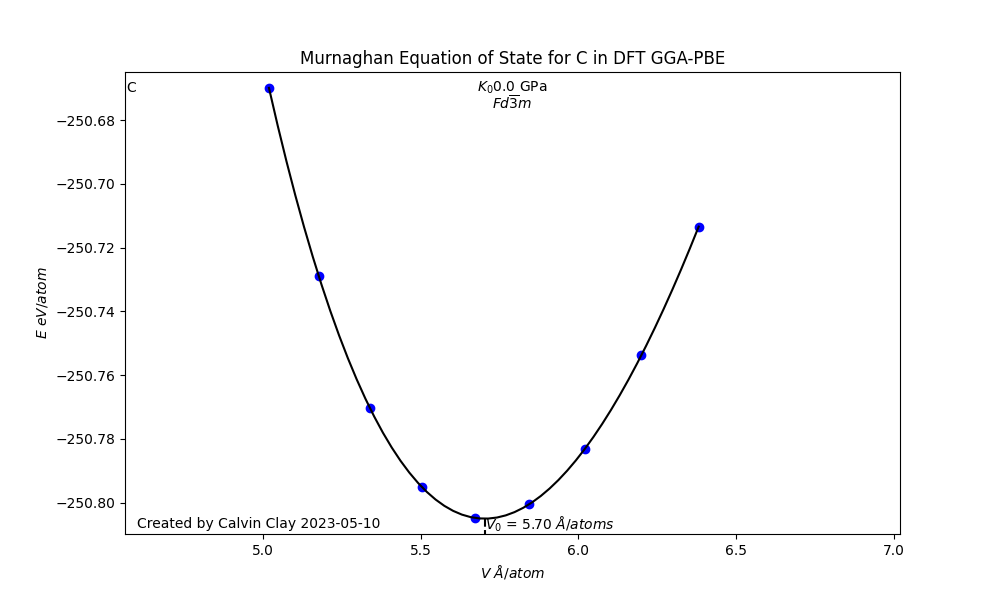
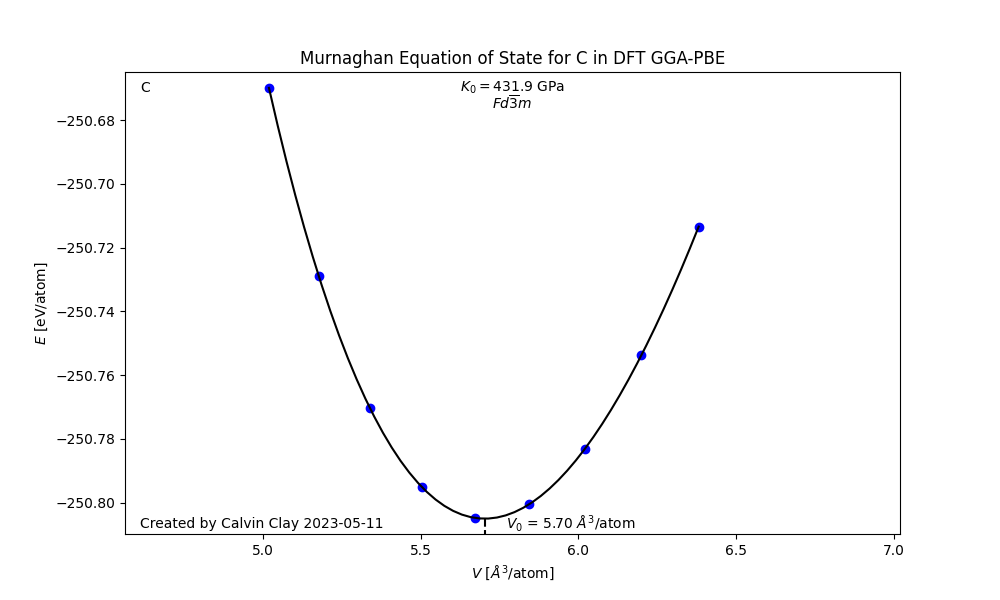
Final finally done

diff --git a/final_exam/Clay_PHYS241FinalScript.py b/final_exam/Clay_PHYS241FinalScript.py
@@ -1,5 +1,9 @@
+"""
+The following code takes the data from volume_energies.dat, converts units, then plots based off the Murnaghan
+Equation of State. Finally, the Sinusoidal Wave is plotted with the first 3 matrices following data.
+
+"""
 from annotate_plot import annotate_plot
-from fit_curve_array import fit_curve_array
 from plot_data_with_fit import plot_data_with_fit
 from read_two_columns_text import read_two_columns_text
 from calculate_quadratic_fit import calculate_quadratic_fit
@@ -12,113 +16,119 @@ import numpy as np
 from datetime import date
 from convert_units import convert_units
 
-display_graph = False
-
 
 def parse_file_name(file):
+    """
+    Give the file name 'C.Fd-3m.GGA-PBE.volumes_energy.dat' to the function to split into 3 strings.
+    :param file: C.Fd-3m.GGA-PBE.volumes_energy.dat
+    :return: str, parse[0]
+    :return: str, parse[1]
+    :return: str, parse[3]
+    """
     parse = file.split(".")
-    chemical_symbol = parse[0]
-    crystal_symbol = parse[1]
-    acronym = parse[2]
-    return chemical_symbol, crystal_symbol, acronym
+    return parse[0], parse[1], parse[2]
 
 
-filename = 'C.Fd-3m.GGA-PBE.volumes_energies.dat'
-chemical_symbol, crystal_symbol, acronym = parse_file_name(filename)
-array = (read_two_columns_text(filename)) / 2
+if __name__ == '__main__':
+    display_graph = True
+    filename = 'C.Fd-3m.GGA-PBE.volumes_energies.dat'
+    chemical_symbol, crystal_symbol, acronym = parse_file_name(filename)
+    array = (read_two_columns_text(filename)) / 2
 
-quad_coefficients_temp = calculate_quadratic_fit(array)
-quadratic_coefficients = quad_coefficients_temp[::-1]
+    quad_coefficients_temp = calculate_quadratic_fit(array)
+    quadratic_coefficients = quad_coefficients_temp[::-1]
 
-eos_fit_curve, eos_parameters = fit_eos(array[0], array[1], quadratic_coefficients, eos='murnaghan')
-converted_units = [convert_units(eos_parameters[0], 'rydberg/atom'),
-                   convert_units(eos_parameters[1], 'rydberg/cubic bor'),
-                   eos_parameters[2], convert_units(eos_parameters[3], 'cubic bohr/atom')
-                   ]
-data_array = np.array([convert_units(array[0], 'cubic bohr/atom'),
-                       convert_units(array[1], 'rydberg/atom')])
+    eos_fit_curve, eos_parameters = fit_eos(array[0], array[1], quadratic_coefficients, eos='murnaghan')
 
-statistics = calculate_bivariate_statistics(data_array)
-min_x = statistics[2]
-max_x = statistics[3]
-min_y = statistics[4]
-max_y = statistics[5]
+    converted_units = [convert_units(eos_parameters[0], 'rydberg/atom'),
+                       convert_units(eos_parameters[1], 'rydberg/cubic bohr'),
+                       eos_parameters[2], convert_units(eos_parameters[3], 'cubic bohr/atom')
+                       ]
 
-fit_array = np.array([np.linspace(min_x, max_x, len(eos_fit_curve)),
-                      convert_units(eos_fit_curve, 'rydberg/atom')])
-plot_miny = min(fit_array[1])
-plot_minx = min(fit_array[0])
-plot_maxy = max(fit_array[1])
-plot_maxx = max(fit_array[0])
+    data_array = np.array([convert_units(array[0], 'cubic bohr/atom'),
+                           convert_units(array[1], 'rydberg/atom')])
 
-annotations_chemical = {'string': f"{chemical_symbol}", 'position': np.array([(min_x/1.1) + 0.005 , max_y - .00005]),
-                        'alignment': ['left', 'center'], 'fontsize': 10}
+    statistics = calculate_bivariate_statistics(data_array)
+    min_x = statistics[2]
+    max_x = statistics[3]
+    min_y = statistics[4]
+    max_y = statistics[5]
 
-annotations_crystal = {
-    'string': rf"${crystal_symbol[:2]}" + r"\overline{" + crystal_symbol[-2] + r"}" + crystal_symbol[-1] + r" $",
-    'position': np.array([(max_x * 1.1 - min_x / 1.1) / 2 + min_x / 1.1, max_y - 0.005]),
-    'alignment': ['center', 'center'], 'fontsize': 10}
+    fit_array = np.array([np.linspace(min_x, max_x, len(eos_fit_curve)),
+                          convert_units(eos_fit_curve, 'rydberg/atom')])
+    plot_miny = min(fit_array[1])
+    plot_minx = min(fit_array[0])
+    plot_maxy = max(fit_array[1])
+    plot_maxx = max(fit_array[0])
 
-annotations_bulk = {'string': rf'$K_0${converted_units[1]:.1f} GPa',
-                    'position': np.array([(max_x * 1.1 - min_x / 1.1) / 2 + min_x / 1.1, max_y]),
-                    'alignment': ['center', 'center'], 'fontsize': 10}
+    annotations_chemical = {'string': f"{chemical_symbol}",
+                            'position': np.array([min_x - 0.3 * (max_x - min_x), max_y - .00005]),
+                            'alignment': ['left', 'center'], 'fontsize': 10}
 
-annotations_V0 = {'string': rf'$V_0$ = {converted_units[3]:.2f} $\AA/atoms$',
-                  'position': np.array([converted_units[3], max_y - .14]),
-                  'alignment': ['left', 'bottom'], 'fontsize': 10}
+    annotations_crystal = {
+        'string': rf"${crystal_symbol[:2]}" + r"\overline{" + crystal_symbol[-2] + r"}" + crystal_symbol[-1] + r" $",
+        'position': np.array([(max_x * 1.1 - min_x / 1.1) / 2 + min_x / 1.1, max_y - 0.005]),
+        'alignment': ['center', 'center'], 'fontsize': 10}
 
-name = 'Calvin Clay'
-annotations_sign = {'string': f"Created by {name} {date.today().isoformat()}",
-                    'position': np.array([4.6, min_y - 0.004]),
-                    'alignment': ['left', 'bottom'],
-                    'fontsize': 10}
+    annotations_bulk = {'string': rf'$K_0= ${converted_units[1]:.1f} GPa',
+                        'position': np.array([(max_x * 1.1 - min_x / 1.1) / 2 + min_x / 1.1, max_y]),
+                        'alignment': ['center', 'center'], 'fontsize': 10}
 
-plt.figure(figsize=(10, 6))
+    annotations_V0 = {'string': rf'$V_0$ = {converted_units[3]:.2f} $\AA^3/$atom',
+                      'position': np.array([converted_units[3] + (max_x - min_x) * .05, max_y - .14]),
+                      'alignment': ['left', 'bottom'], 'fontsize': 10}
 
-plot = (plot_data_with_fit(data_array, fit_array, data_format="o", fit_format=""))
-plt.xlim(min_x / 1.1, max_x * 1.1)
-plt.plot(np.linspace(converted_units[3], converted_units[3], 50),
-                     np.linspace(np.amin(fit_array[1]), (np.amin(fit_array[1]) + min_y * 1.00005 / 2)), 'k--')
-plt.ylim(min_y * 1.00002, max_y / 1.00002)
-plt.ylabel(r'$E$' + ' ' + r"$eV/atom$")
-plt.xlabel(r'$V$' + ' ' + r"$\AA/atom$")
-annotate_plot(annotations_chemical)
-annotate_plot(annotations_V0)
-annotate_plot(annotations_crystal)
-annotate_plot(annotations_bulk)
-annotate_plot(annotations_sign)
-plt.title(f'Murnaghan Equation of State for {chemical_symbol} in DFT {acronym}')
-if display_graph == 'True':
-    plt.show()
-else:
-    plt.savefig('Murnaghan.png')
+    name = 'Calvin Clay'
+    annotations_sign = {'string': f"Created by {name} {date.today().isoformat()}",
+                        'position': np.array([min_x - 0.3 * (max_x - min_x), min_y - 0.004]),
+                        'alignment': ['left', 'bottom'],
+                        'fontsize': 10}
 
-##########
+    plt.figure(figsize=(10, 6))
 
-matrix = generate_matrix(-10, 10, 90, 'Square', 100)
-eigenvalue, eigenvector = lowest_eigenvector(matrix,3)
-eigenvalues = eigenvalue[0:3]
-eigenvectors = eigenvector[0:3]
-x = np.linspace(-10,10,90)
-labels = []
-for i in range(0,3):
-    labels.append(rf'$\psi_n {i}, E_{i} $ = {eigenvalue[i]:.3f}a.u.')
-plt.figure(figsize=(12,8))
-line1 = plt.plot(x, eigenvectors[0])
-line2 = plt.plot(x, eigenvectors[1])
-line3 = plt.plot(x, eigenvectors[2])
-plt.xlabel(r'$x$[a.u.]')
-plt.ylabel(r'$\psi_n (x)$[a.u.]')
-plt.legend(labels=labels, loc='upper right')
-plt.ylim(-2*np.amax(eigenvectors), 2 * np.amax(eigenvectors))
-plt.plot(x, np.linspace(0, 0, 90), color='black')
-plt.title(f"Select Wavefuctions for a {'Square'} Potentional\n"
-          f"on a Spatial Grid of 90 Points")
-name = 'Calvin Clay'
-plt.annotate(f'Created by {name} {date.today().isoformat()}', (.02,.054), (-7.5,.25),
-             xycoords='axes fraction', textcoords='offset points', va='top')
+    plot = (plot_data_with_fit(data_array, fit_array, data_format="o", fit_format=""))
+    plt.xlim(min_x / 1.1, max_x * 1.1)
+    plt.plot(np.linspace(converted_units[3], converted_units[3], 50),
+             np.linspace(np.amin(fit_array[1]), (np.amin(fit_array[1]) + min_y * 1.00005 / 2)), 'k--')
+    plt.ylim(min_y * 1.00002, max_y / 1.00002)
+    plt.ylabel(r'$E$' + ' ' + r"[eV/atom]")
+    plt.xlabel(r'$V$' + ' ' + r"[$\AA^3/$atom]")
+    annotate_plot(annotations_chemical)
+    annotate_plot(annotations_V0)
+    annotate_plot(annotations_crystal)
+    annotate_plot(annotations_bulk)
+    annotate_plot(annotations_sign)
+    plt.title(f'Murnaghan Equation of State for {chemical_symbol} in DFT {acronym}')
+    if display_graph == 'True':
+        plt.show()
+    else:
+        plt.savefig('Murnaghan.png')
 
-if display_graph:
-    plt.show()
-else:
-    plt.savefig('Square.png')
+    ##########
+    number_of_eigenvalues = 3
+    matrix = generate_matrix(-10, 10, 90, 'Square', 100)
+    eigenvalue, eigenvector = lowest_eigenvector(matrix, number_of_eigenvalues)
+    eigenvalues = eigenvalue[:number_of_eigenvalues]
+    eigenvectors = eigenvector[:number_of_eigenvalues]
+    x = np.linspace(-10, 10, 90)
+    labels = []
+    for i in range(number_of_eigenvalues):
+        labels.append(rf'$\psi_' + r'{' + rf'{i}' + r'},' + rf'E_{i} $ = {eigenvalue[i]:.3f}a.u.')
+    plt.figure(figsize=(12, 8))
+    for eigenvector in eigenvectors:
+        plt.plot(x, eigenvector)
+    plt.xlabel(r'$x$ [a.u.]')
+    plt.ylabel(r'$\psi_n (x)$ [a.u.]')
+    plt.legend(labels=labels, loc='upper right')
+    plt.ylim(-2 * np.amax(eigenvectors), 2 * np.amax(eigenvectors))
+    plt.plot(x, np.linspace(0, 0, 90), color='black')
+    plt.title(f"Select Wavefuctions for a {'Square'} Potential\n"
+              f"on a Spatial Grid of 90 Points")
+    name = 'Calvin Clay'
+    plt.annotate(f'Created by {name} {date.today().isoformat()}', (.02, .054), (-7.5, .25),
+                 xycoords='axes fraction', textcoords='offset points', va='top')
+
+    if display_graph:
+        plt.show()
+    else:
+        plt.savefig('Square.png')

diff --git a/final_exam/convert_units.py b/final_exam/convert_units.py
@@ -1,4 +1,4 @@
-from scipy.constants import angstrom, physical_constants
+from scipy.constants import angstrom, physical_constants, giga
 
 
 def convert_units(value, units):
@@ -8,7 +8,7 @@ def convert_units(value, units):
         new_values = value * physical_constants['Rydberg constant times hc in eV'][0]
     elif units == 'rydberg/cubic bohr':
         new_values = value * physical_constants['Rydberg constant times hc in J'][0]/\
-            physical_constants['Bohr radius'][0]
+            physical_constants['Bohr radius'][0]**3 / giga
     else:
         new_values = value
     return new_values
